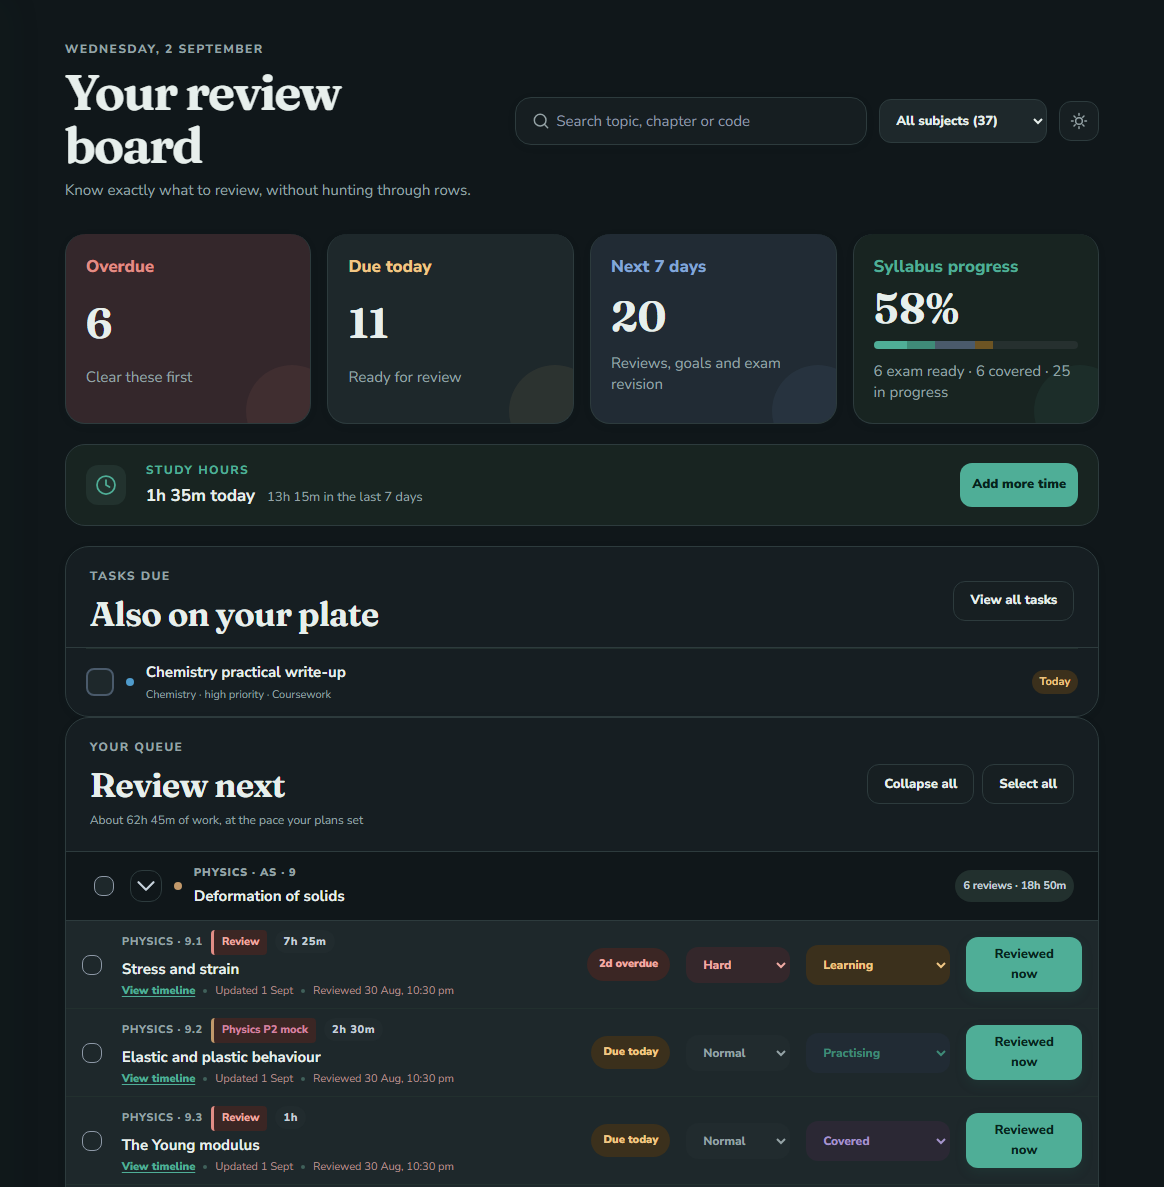
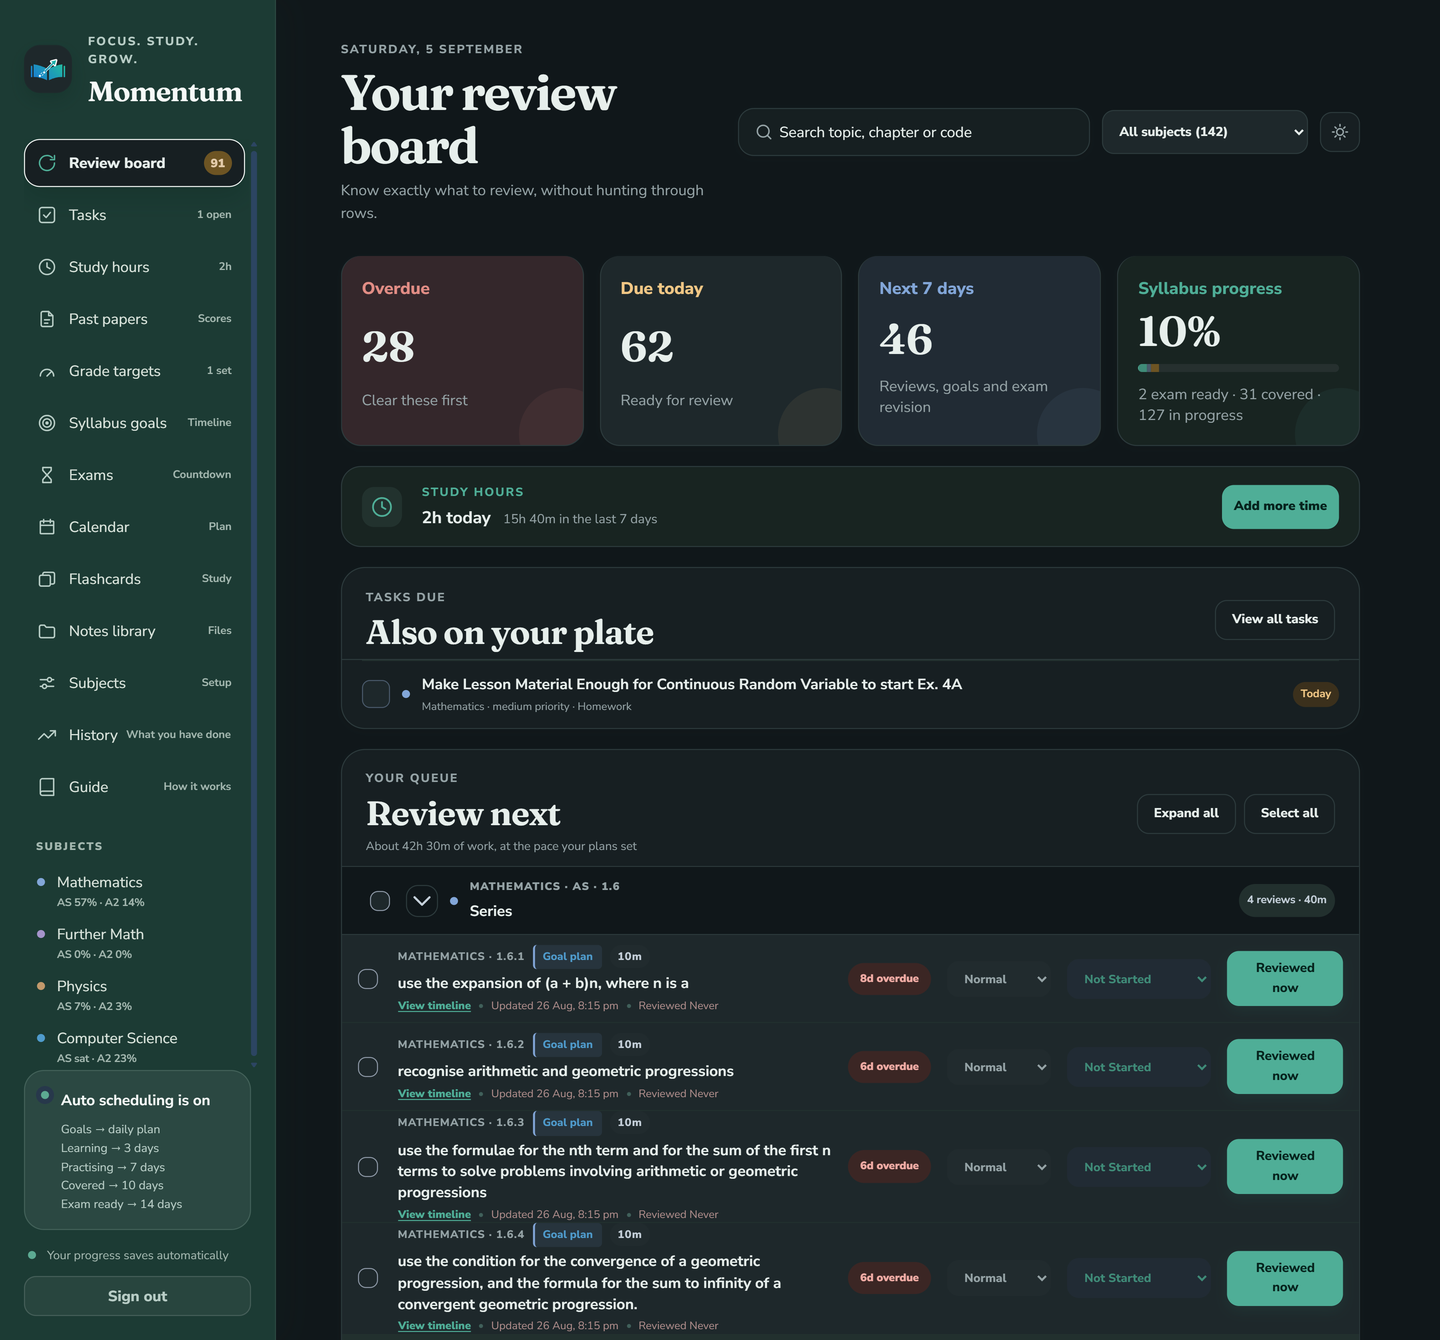
Photograph the board instead of reassembling it
The hero was two captures joined at a verified seam, because no single
one held the counters, the tasks and the queue's own rows at once. It
does now: the board was shot from the running app with a task due today
and a chapter left open, so the picture is one screenshot again and the
sidebar is back in it.

Shot at the height its own content ends at — 1340, read off the expanded
chapter's bounding box — so nothing is half-drawn at either edge. The
sidebar finishes on Sign out with every subject visible, and the queue
finishes on the chapter rather than part-way through a row. The width
stays 1440 because the callouts are positioned from where the counters
sit in that frame; re-measured against the new capture, they land within
0.6px of their card.

Rendered at 2.5x and downscaled, so it is sharper than what it replaces.
scripts/capture-board.md says how to take it again, including the two
things that make it hard: html2canvas re-implements layout and draws
queue rows on top of each other, so it has to go through foreignObject,
and color-mix on every card resolves to a colour function rasterisers
cannot read.

The stitch and its seam check come out of crop-landing-shots.py with it.
That script goes back to what it was for — cutting detail crops out of
review-board and review-queue, which are untouched.

diff --git a/app/landing.tsx b/app/landing.tsx
@@ -24,13 +24,14 @@ import type { LandingStats } from "../lib/landing-stats";
 
 const SHOTS = [
   {
-    // The board's whole page, put back together from the two captures of it by
-    // scripts/crop-landing-shots.py — which carries the reasoning, and fails
-    // rather than guessing if a retake stops the two agreeing.
+    // One capture, not a crop of one: the board is photographed at the height
+    // its own content ends at, so the sidebar finishes on Sign out and the
+    // queue finishes on a chapter rather than part-way through a row. See
+    // scripts/capture-board.md for how to retake it.
     file: "board-hero",
-    width: 1164,
-    height: 1187,
-    alt: "The Momentum review board: four counters reading six overdue, eleven due today, twenty in the next seven days and 58% of the syllabus covered, then 1h 35m logged today, a Chemistry coursework task due today, and the queue itself — Deformation of solids opened to show stress and strain two days overdue and rated hard, elastic and plastic behaviour due today for a Physics P2 mock, and the Young modulus due today, each with how long it is worth, its status and a button marking it reviewed.",
+    width: 1440,
+    height: 1340,
+    alt: "The Momentum review board: a sidebar of screens and four tracked subjects, beside counters reading 28 overdue, 62 due today, 46 in the next seven days and 10% of the syllabus covered, then 2h logged today, a Mathematics homework task due today, and the queue itself — the Series chapter opened to show four syllabus points, each six or eight days overdue, with what it is worth, its difficulty, its status and a button marking it reviewed.",
   },
   {
     file: "review-queue",

diff --git a/app/landing.css b/app/landing.css
@@ -125,10 +125,10 @@
 
 /* What the hero screenshot is showing, printed under the four counters it is
    about. The offsets are those cards' own place in the frame, measured off the
-   image itself: in its 1164px width the row of cards starts at 65 and ends at
-   1098 — four cards of 246 with a 16px gap. As percentages that is 5.58% in,
-   88.75% wide and a 1.55% gap, so each label sits under the number it explains
-   however wide the column gets.
+   image itself: in its 1440px width the row of cards starts at 341 — past the
+   sidebar and the page gutter — and ends at 1360, four cards of 244 with a 14px
+   gap. As percentages that is 23.68% in, 70.76% wide and a 1.41% gap, so each
+   label sits under the number it explains however wide the column gets.
 
    Below 900px the picture is too small to point into, so the row breaks up and
    each label leans on naming its own card instead. */
@@ -136,9 +136,9 @@
   list-style: none;
   display: grid;
   grid-template-columns: repeat(4, minmax(0, 1fr));
-  gap: 1.5489%;
-  width: 88.7457%;
-  margin: var(--space-3) 0 0 5.5842%;
+  gap: 1.4063%;
+  width: 70.7639%;
+  margin: var(--space-3) 0 0 23.6806%;
   padding: 0;
   text-align: left;
 }

diff --git a/scripts/crop-landing-shots.py b/scripts/crop-landing-shots.py
@@ -14,7 +14,7 @@ Run it after retaking any of the screenshots it reads:
 
 from pathlib import Path
 
-from PIL import Image, ImageChops
+from PIL import Image
 
 SHOTS = Path(__file__).resolve().parent.parent / "public" / "shots"
 
@@ -46,76 +46,7 @@ CROPS = {
 }
 
 
-# --- The hero -----------------------------------------------------------------
-#
-# The landing page needs one picture carrying the whole board: the counters, the
-# tasks under them, and the queue's actual spec points with their dates and
-# statuses. No single capture holds all three. The board was photographed at
-# 1440x900, which runs out part-way through the queue's first chapter row, and
-# the queue was photographed scrolled down, which starts below the counters.
-#
-# They are the same session at the same width, so the page they both belong to
-# can be put back together — the browser's own full-page screenshot is the same
-# operation. Two things make it honest rather than a montage:
-#
-#   * The queue capture is scrolled by exactly SHIFT. Correlating a band of it
-#     against the board finds that offset with the runner-up nine times worse,
-#     so there is no ambiguity about where it goes.
-#   * The two disagree from row 764 down, because the queue capture has a
-#     chapter expanded and so reads "Collapse all" where the board reads "Expand
-#     all". SEAM sits above that. Below it every pixel is the expanded state's
-#     own; above it, expanding a chapter cannot change anything, since it
-#     re-renders only its own subtree — and check_seam proves that for the rows
-#     the two captures share, so a retake that breaks the assumption fails here
-#     rather than shipping a screen that never existed.
-#
-# The sidebar is left out. It does not scroll with the page, and the two
-# captures caught its own nav at different scroll positions, so it is the one
-# column that genuinely cannot be joined. The workspace runs 276..1440, which
-# leaves the same gutter either side of the cards.
-SHIFT = 715
-SEAM = 763
-WORKSPACE = (276, 1440)
-# Three spec points is enough to show what a queue row carries without the
-# picture growing taller than the copy beside it. 1187 is the divider under the
-# third, so it stops between rows rather than through one.
-HERO_BOTTOM = 1187
-
-
-def check_seam(board: Image.Image, queue: Image.Image, theme: str) -> None:
-    """The rows both captures show above the seam have to be identical."""
-    left, right = WORKSPACE
-    shared = ImageChops.difference(
-        board.crop((left, SHIFT, right, SEAM)),
-        queue.crop((left, 0, right, SEAM - SHIFT)),
-    ).getbbox()
-    if shared is not None:
-        raise SystemExit(
-            f"{theme}: the board and queue captures disagree above the seam at {shared}. "
-            "They are no longer the same page state — retake both, or move SEAM above "
-            "the first row that differs."
-        )
-
-
-def build_hero() -> None:
-    left, right = WORKSPACE
-    for theme in ("light", "dark"):
-        board = Image.open(SHOTS / f"review-board-{theme}.png").convert("RGB")
-        queue = Image.open(SHOTS / f"review-queue-{theme}.png").convert("RGB")
-        check_seam(board, queue, theme)
-
-        page = Image.new("RGB", (right - left, SEAM + queue.height - (SEAM - SHIFT)))
-        page.paste(board.crop((left, 0, right, SEAM)), (0, 0))
-        page.paste(queue.crop((left, SEAM - SHIFT, right, queue.height)), (0, SEAM))
-
-        hero = page.crop((0, 0, right - left, HERO_BOTTOM))
-        target = SHOTS / f"board-hero-{theme}.png"
-        hero.save(target, optimize=True)
-        print(f"{target.name}  {hero.width}x{hero.height}")
-
-
 def main() -> None:
-    build_hero()
     for name, (source, box) in CROPS.items():
         for theme in ("light", "dark"):
             image = Image.open(SHOTS / f"{source}-{theme}.png")

diff --git a/scripts/capture-board.md b/scripts/capture-board.md
@@ -1,0 +1,53 @@
+# Retaking the landing page's board screenshot
+
+`public/shots/board-hero-{light,dark}.png` is the picture the landing page opens
+on. It is a straight capture of the running app — not a crop, and not two
+captures joined — so retaking it is a matter of putting the board into the state
+worth photographing and shooting the whole of it at once.
+
+## What has to be in frame
+
+- The four counters, because the labels under the picture on the landing page
+  point at them. Their place in the frame is measured into `landing.css`, so
+  keep the capture **1440 wide** or those labels stop lining up.
+- The **tasks** card. It only renders for a task due today or overdue, so make
+  sure there is one before you shoot.
+- **A few syllabus points**, which means a chapter left expanded in the queue.
+
+## Getting the height right
+
+Shoot at the height the content itself ends at, and nothing is left half-drawn:
+the sidebar finishes on Sign out, and the queue finishes on a chapter rather than
+part-way through a row. Read that height off the page rather than guessing:
+
+```js
+const panel = [...document.querySelectorAll('.review-panel, .panel-card')]
+  .find(p => p.textContent.includes('Review next'));
+Math.round(panel.querySelector('.queue-groups').children[0].getBoundingClientRect().bottom);
+```
+
+Set the viewport to 1440 by that number. The workspace is a plain document, so
+changing the height moves nothing in it — only the sidebar grows, which is what
+lets it finish cleanly.
+
+## Taking it
+
+Chrome's own full-page capture is the simplest route: DevTools → device toolbar
+→ 1440 wide → **Capture full size screenshot**, then trim to the height above.
+
+Rasterising from inside the page also works and is what was used last time, but
+only through SVG `foreignObject` — `html-to-image`, not `html2canvas`. The latter
+re-implements layout and drew two queue rows on top of each other. Render at 2x
+or more and downscale to 1440; `color-mix()` is used on every card and resolves
+to a `color()` function some rasterisers cannot read, so replace those two rules
+with the flat colour they paint before shooting.
+
+Take both themes from the same state, and wait for the theme transition to
+finish — a card's computed background has to stop changing before the shutter,
+or the counters come out mid-fade.
+
+## After
+
+Nothing to run: the hero is not derived from anything.
+`scripts/crop-landing-shots.py` reads `review-board` and `review-queue`, which
+are separate captures and stay as they are.
